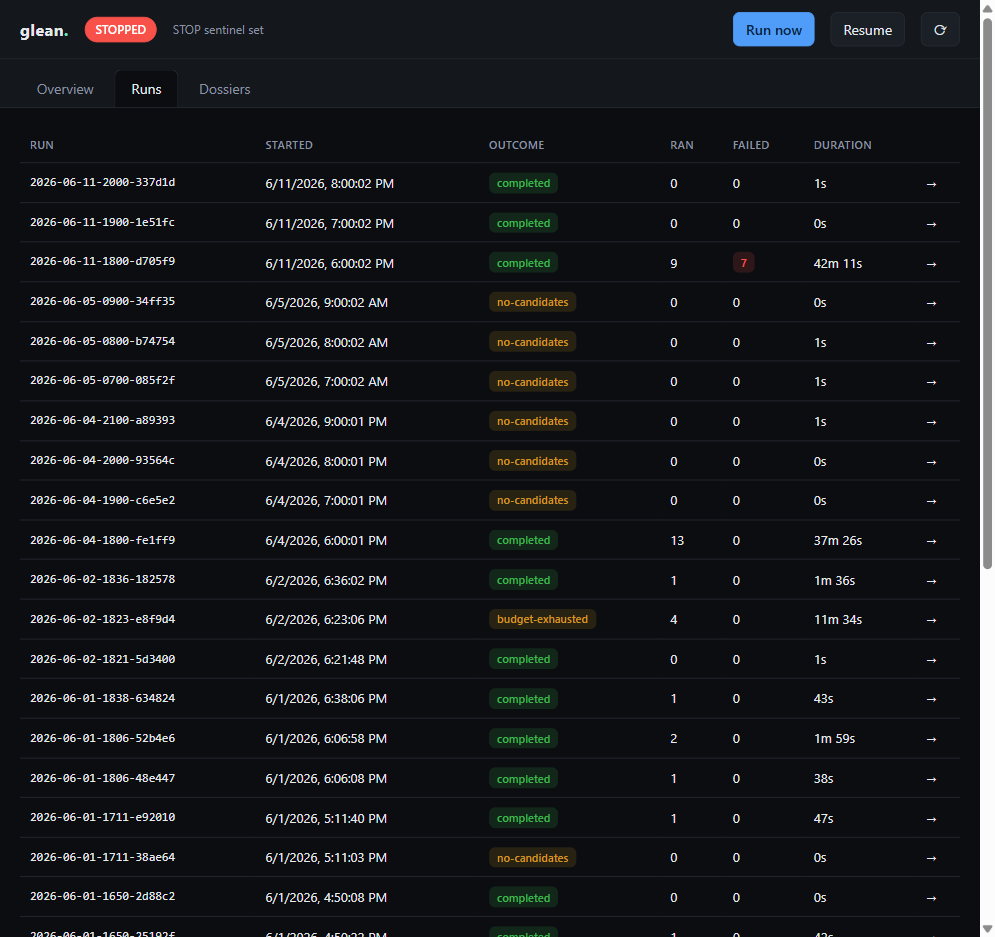
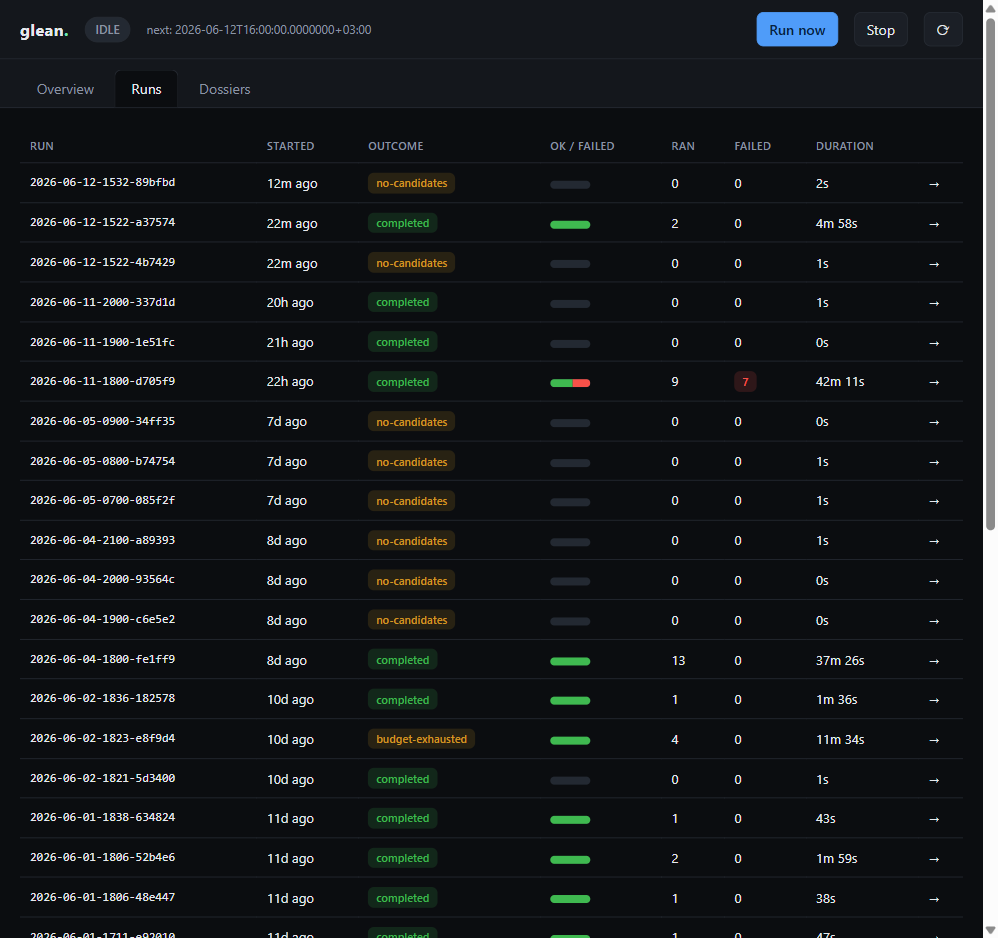
chore: release v0.8.4 (dashboard, linux beta, drain resilience, dossier read-scope)
README gains a dashboard section with a fresh Runs-view screenshot; both
guide screenshots refreshed to the post-UX UI (capacity panel, ratio bars).

diff --git a/README.md b/README.md
@@ -79,6 +79,15 @@ The Linux port is new and has had far less mileage than the Windows path — tre
 | `glean gc` | Expire draft-impl worktrees + `prep/glean-*` branches older than 21 days. |
 | `glean stop` | Halt the active run/drain between tasks. |
 
+### The dashboard (`glean serve`)
+
+Everything glean does, in one local page — every run with its outcome and ok/failed ratio, every dossier (view, rate, discard), live session-window capacity from captured `rate_limit_event` telemetry, and one-click management (Run now, Stop/Resume, retry failed tasks, toggle the schedule). Binds to `127.0.0.1` only.
+
+<p align="center">
+  <img src="https://raw.githubusercontent.com/Jonny-boy9000/glean/main/docs/assets/dashboard-runs.png" alt="glean serve dashboard: runs table with outcomes, ok/failed ratio bars and durations for every drain burst" width="760">
+</p>
+<p align="center"><em>The Runs view — every burst the drain made, with honest outcomes (including the rate-limited one that taught us two bug fixes). Full walkthrough in the <a href="docs/guides/dashboard.md">dashboard guide</a>.</em></p>
+
 ---
 
 ## How it works

diff --git a/docs/ROADMAP.md b/docs/ROADMAP.md
@@ -2,9 +2,9 @@
 
 > Single source of truth for planned work. Each entry links to the spec, dogfood doc, or critique that originated it. Update on every release and whenever an item is added, deferred, or completed.
 
-**Last updated:** 2026-06-12 (`glean serve` dashboard built + verified; two 2026-06-11 drain bugs filed)
-**Current release:** **v0.8.3 published to npm** (`@jonny-boy9000/glean@0.8.3`, merge `7e08e3a`/PR #14, tag `v0.8.3`) — patch: fix `glean schedule status`/`disable` querying Task Scheduler by the combined name (found live; misreported a registered task as "not registered"). Built on v0.8.2 drain robustness. 406 tests + 2 documented skips.
-**Branch state:** `main` at v0.8.3, clean.
+**Last updated:** 2026-06-12 (v0.8.4 released: PRs #15–#19 merged; Terra Firma live test run)
+**Current release:** **v0.8.4 published to npm** (`@jonny-boy9000/glean@0.8.4`, PRs #15–#19, tag `v0.8.4`) — the `glean serve` management dashboard + capacity panel, Linux beta (systemd user timers), drain-resilience fixes (honest dedup ledger + structured-429 short-circuit, ADR-0003), dossier read-scope (ADR-0002 Accepted), docs consolidation. 482 tests + 6 skips (4 Linux-gated).
+**Branch state:** `main` at v0.8.4, clean.
 **Live validation (2026-06-02):** first real `glean run` (4 tasks, 0 failed) + `--drain` tick both succeeded against `claude -p` on the logged-in machine; `glean schedule enable` registered the unattended drain (fires **Thu 2026-06-04 18:00**, Asia/Jerusalem → Thursday auto-detect). The drain will run unattended; the v0.8.2 **BLOCK-CAPTURE tripwire** auto-captures the real hard-block the first time the weekly cap is hit (closes ADR-0001 — see Up next #1).
 
 ---

diff --git a/CHANGELOG.md b/CHANGELOG.md
@@ -1,6 +1,6 @@
 # Changelog
 
-## Unreleased (on `main`, 2026-06-12 — PRs #15–#19; version bump pending)
+## v0.8.4 — 2026-06-12 (PRs #15–#19)
 
 ### Added
 - **`glean serve` — local management dashboard** (PR #15): 127.0.0.1-only web UI to browse runs (orchestrator timeline + per-task streams), view/rate/discard dossiers, Run now / Stop / Resume, retry failed tasks, toggle the schedule, plus a live **capacity panel** (session-window utilization gauge + reset countdown from captured `rate_limit_event` telemetry). CSRF/loopback/path-traversal/XSS guards. See `docs/guides/dashboard.md`.

diff --git a/CLAUDE.md b/CLAUDE.md
@@ -4,7 +4,7 @@ This file provides guidance to Claude Code (claude.ai/code) when working with co
 
 ## Project state
 
-**v0.8.3 published to npm** (`@jonny-boy9000/glean@0.8.3`, merge `7e08e3a`/PR #14, tag `v0.8.3`): a patch fixing `glean schedule status`/`disable` Task Scheduler query (was misreporting a live registered task as "not registered" — found in the live validation). Built on **v0.8.2 drain robustness** (configurable circuit-breaker + richer `productive` signal, mid-weekend re-discovery + `evidence_hash` dedup, per-burst anti-spill margin, `today`/`peek` window-aware aggregation, honest rate-limit signal per [ADR-0001](./docs/decisions/0001-rate-limit-signal-source.md)). 406 tests + 2 documented skips. Public repo at https://github.com/Jonny-boy9000/glean. Install: `npm i -g @jonny-boy9000/glean` (CLI is still `glean`). See [`docs/PROJECT-MAP.md`](./docs/PROJECT-MAP.md). **Live-validated 2026-06-02:** first real run (4 tasks, 0 failed) + drain tick succeeded against `claude -p`; the unattended drain is **scheduled (fires Thu 2026-06-04 18:00)**. **To pick up cold, read [`docs/handoff/post-v0.8.2-handoff.md`](./docs/handoff/post-v0.8.2-handoff.md).** **Next:** ADR-0001 closes itself when the scheduled drain hits the weekly cap (BLOCK-CAPTURE tripwire is armed); then launch/adoption (demo GIF) + the fetch-docs-under-deny-list finding (see ROADMAP).
+**v0.8.4 published to npm** (`@jonny-boy9000/glean@0.8.4`, PRs #15–#19, tag `v0.8.4`): the `glean serve` management dashboard (+ live capacity panel), Linux beta (systemd user timers), the two drain-resilience fixes from the 2026-06-11 live run (honest dedup ledger + structured-429 short-circuit, ADR-0003), dossier read-scope (ADR-0002 Accepted), and the docs consolidation. Built on v0.8.3 (schedule status/disable query fix) and **v0.8.2 drain robustness** (configurable circuit-breaker + richer `productive` signal, mid-weekend re-discovery + `evidence_hash` dedup, per-burst anti-spill margin, `today`/`peek` window-aware aggregation, honest rate-limit signal per [ADR-0001](./docs/decisions/0001-rate-limit-signal-source.md)). 406 tests + 2 documented skips. Public repo at https://github.com/Jonny-boy9000/glean. Install: `npm i -g @jonny-boy9000/glean` (CLI is still `glean`). See [`docs/PROJECT-MAP.md`](./docs/PROJECT-MAP.md). **Live-validated 2026-06-02:** first real run (4 tasks, 0 failed) + drain tick succeeded against `claude -p`; the unattended drain is **scheduled (fires Thu 2026-06-04 18:00)**. **To pick up cold, read [`docs/handoff/post-v0.8.2-handoff.md`](./docs/handoff/post-v0.8.2-handoff.md).** **Next:** ADR-0001 closes itself when the scheduled drain hits the weekly cap (BLOCK-CAPTURE tripwire is armed); then launch/adoption (demo GIF) + the fetch-docs-under-deny-list finding (see ROADMAP).
 
 Done so far: the MVP + quality patches (v0.1.x), the persistent-memory + usefulness-telemetry loop (v0.2–v0.6: `glean today`/`rate`/`peek`, dossier sweep), the **`draft-impl` engine** (v0.7.0 — AI-drafts code for the top TODO into an isolated `git worktree` on a `prep/glean-*` branch; safety enforced by a scoped tool allow-list; `glean gc` for worktree expiry), the **`glean morning` receipt** with verified draft test status (v0.7.1), and the **v0.8.0 drain core** (`glean run --drain` exit-and-re-enter + `glean schedule` Windows Task Scheduler + rate-limit horizon classifier + window-aggregated morning receipt). Both make-or-break gates were cleared empirically before building (no headless `claude usage` query; `claude -p` authenticates under Task Scheduler). **v0.8.1 UX polish** adds a work-week-aware schedule default (timezone-detected: Thursday for Israel, else Friday), a durable shareable `RECEIPT.md` (`glean morning --md`), and a README rewritten to v0.8 reality.
 